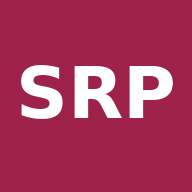
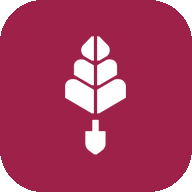
Bloque 36: más iconos del set CDMX, logotipo del programa e icono de la app (D89, D90)
Iconos elegidos por Liber en acceso (correo #53, contraseña #63, Entrar #11),
cuenta (#261), las cinco pestañas (#32, #183, #50, #48, #270), ayuda sin
internet (#24), buscar (#4), agregar (#32), dar de alta (#264) y avisos (#22);
se insertan al arrancar con SRP.app.ponerIconos() y SRP.ICONOS.poner().

Logotipo del Programa de Reforestación Urbana en el encabezado (completo en
pantalla ancha; emblema y nombre del programa en teléfono) y en el PDF, desde
el mismo archivo. Icono de la app: emblema del programa en blanco sobre guinda
(192, 512, 512 enmascarable, apple-touch). assets/logo.js deja de usarse
(movido a _to_delete/ para que Liber lo borre).

Verificación: 241 comprobaciones sin errores de consola, 81 de auditoría,
presentación sin desbordes; el worker guarda 41 archivos. Versión 0.6.17.

Claude-Session: https://claude.ai/code/session_018txYZzHW3mQuK8F5vSPbmE

diff --git a/js/iconos.js b/js/iconos.js
@@ -6,7 +6,8 @@
    CDMX 2024-2030 se toman de ahí (basura, cerrar, ubicación, cámara, ver), extraídos del
    ICONOS SET.ai que entregó Liber y normalizados a una caja de 24×24 con
    pruebas/extraer_iconos.py; el número es su posición en la hoja índice. Palomita, lápiz, disco
-   y señal no existen en el set y se conservan. */
+   y señal no existen en el set y se conservan. En el bloque 36 (D89) entraron los del acceso, la
+   cuenta, las pestañas y varias acciones; conexión con y sin señal siguen con las ondas. */
 window.SRP = window.SRP || {};
 
 SRP.ICONOS = {
@@ -28,6 +29,41 @@ SRP.ICONOS = {
   ver: '<path fill="currentColor" d="M 12.68 12 L 9.6 15.08 L 11 16.5 L 15.5 12 L 11 7.5 L 9.6 8.92 Z M 12 20 C 14.23 20 16.12 19.22 17.68 17.67 C 19.22 16.13 20 14.23 20 12 C 20 9.77 19.22 7.87 17.68 6.33 C 16.12 4.78 14.23 4 12 4 C 9.77 4 7.88 4.78 6.32 6.33 C 4.78 7.87 4 9.77 4 12 C 4 14.23 4.78 16.13 6.32 17.67 C 7.88 19.22 9.77 20 12 20 M 12 22 C 10.62 22 9.32 21.73 8.1 21.21 C 6.89 20.69 5.83 19.97 4.93 19.08 C 4.03 18.18 3.31 17.12 2.79 15.9 C 2.26 14.68 2 13.38 2 12 C 2 10.62 2.26 9.32 2.79 8.1 C 3.31 6.88 4.03 5.82 4.93 4.93 C 5.83 4.03 6.89 3.31 8.1 2.79 C 9.32 2.27 10.62 2 12 2 C 13.38 2 14.68 2.27 15.9 2.79 C 17.11 3.31 18.17 4.03 19.07 4.93 C 19.97 5.82 20.69 6.88 21.21 8.1 C 21.74 9.32 22 10.62 22 12 C 22 13.38 21.74 14.68 21.21 15.9 C 20.69 17.12 19.97 18.18 19.07 19.08 C 18.17 19.97 17.11 20.69 15.9 21.21 C 14.68 21.73 13.38 22 12 22"/>',
   // Agregar fotografía (set CDMX #62)
   camara: '<path fill="currentColor" d="M 18.36 8.37 L 18.36 6.54 L 16.55 6.54 L 16.55 4.73 L 18.36 4.73 L 18.36 2.91 L 20.18 2.91 L 20.18 4.73 L 22 4.73 L 22 6.54 L 20.18 6.54 L 20.18 8.37 Z M 11.09 16.09 C 10.45 16.09 9.92 15.87 9.48 15.43 C 9.04 14.99 8.82 14.45 8.82 13.82 C 8.82 13.18 9.04 12.65 9.48 12.21 C 9.92 11.77 10.45 11.54 11.09 11.54 C 11.73 11.54 12.27 11.77 12.71 12.21 C 13.15 12.65 13.36 13.18 13.36 13.82 C 13.36 14.45 13.15 14.99 12.71 15.43 C 12.27 15.87 11.73 16.09 11.09 16.09 M 11.09 17.91 C 12.23 17.91 13.19 17.51 13.99 16.72 C 14.78 15.92 15.18 14.96 15.18 13.82 C 15.18 12.68 14.78 11.71 13.99 10.92 C 13.19 10.12 12.23 9.73 11.09 9.73 C 9.95 9.73 8.99 10.12 8.19 10.92 C 7.4 11.71 7 12.68 7 13.82 C 7 14.96 7.4 15.92 8.19 16.72 C 8.99 17.51 9.95 17.91 11.09 17.91 M 3.82 21.09 C 3.32 21.09 2.89 20.91 2.53 20.56 C 2.18 20.2 2 19.78 2 19.28 L 2 8.37 C 2 7.86 2.18 7.44 2.53 7.08 C 2.89 6.72 3.32 6.54 3.82 6.54 L 6.68 6.54 L 8.36 4.73 L 13.82 4.73 L 13.82 6.54 L 9.16 6.54 L 7.5 8.37 L 3.82 8.37 L 3.82 19.28 L 18.36 19.28 L 18.36 11.09 L 20.18 11.09 L 20.18 19.28 C 20.18 19.78 20.01 20.2 19.65 20.56 C 19.29 20.91 18.86 21.09 18.36 21.09 Z M 3.82 21.09"/>',
+
+  // ---- Bloque 36 (D89): acceso, cuenta, pestañas y acciones ----
+  // Correo (set CDMX #53)
+  correo: '<path fill="currentColor" d="M 13.82 12.27 L 7.46 7.84 L 7.46 14.73 L 20.18 14.73 L 20.18 7.84 Z M 20.18 7.77 L 20.18 5.64 L 7.46 5.64 L 7.46 7.77 L 7.46 5.64 L 20.18 5.64 Z M 13.82 10.04 L 20.18 5.64 L 7.46 5.64 Z M 7.46 16.55 C 6.96 16.55 6.53 16.37 6.17 16.01 C 5.81 15.66 5.64 15.23 5.64 14.73 L 5.64 5.64 C 5.64 5.14 5.81 4.71 6.17 4.35 C 6.53 4 6.96 3.82 7.46 3.82 L 20.18 3.82 C 20.68 3.82 21.11 4 21.46 4.35 C 21.82 4.71 22 5.14 22 5.64 L 22 14.73 C 22 15.23 21.82 15.66 21.46 16.01 C 21.11 16.37 20.68 16.55 20.18 16.55 Z M 3.82 20.18 C 3.32 20.18 2.89 20 2.54 19.65 C 2.18 19.29 2 18.86 2 18.36 L 2 7 L 3.82 7 L 3.82 18.36 L 18.82 18.36 L 18.82 20.18 Z M 3.82 20.18"/>',
+  // Contraseña (set CDMX #63)
+  candado: '<path fill="currentColor" d="M 12 17.24 C 12.52 17.24 12.97 17.05 13.34 16.68 C 13.72 16.31 13.9 15.86 13.9 15.33 C 13.9 14.81 13.72 14.36 13.34 13.99 C 12.97 13.61 12.52 13.43 12 13.43 C 11.48 13.43 11.03 13.61 10.66 13.99 C 10.28 14.36 10.1 14.81 10.1 15.33 C 10.1 15.86 10.28 16.31 10.66 16.68 C 11.03 17.05 11.48 17.24 12 17.24 M 9.14 8.67 L 14.86 8.67 L 14.86 6.76 C 14.86 5.97 14.58 5.29 14.02 4.74 C 13.47 4.18 12.79 3.91 12 3.91 C 11.2 3.91 10.53 4.18 9.98 4.74 C 9.42 5.29 9.14 5.97 9.14 6.76 Z M 6.29 10.57 L 6.29 20.09 Z M 17.71 10.57 L 6.29 10.57 L 6.29 20.1 L 17.71 20.1 Z M 6.29 22 C 5.76 22 5.31 21.81 4.94 21.44 C 4.57 21.07 4.38 20.62 4.38 20.09 L 4.38 10.57 C 4.38 10.05 4.57 9.6 4.94 9.23 C 5.31 8.85 5.76 8.67 6.29 8.67 L 7.24 8.67 L 7.24 6.76 C 7.24 5.44 7.7 4.32 8.63 3.39 C 9.56 2.47 10.68 2 12 2 C 13.32 2 14.44 2.47 15.37 3.39 C 16.3 4.32 16.76 5.44 16.76 6.76 L 16.76 8.67 L 17.71 8.67 C 18.24 8.67 18.69 8.85 19.06 9.23 C 19.43 9.6 19.62 10.05 19.62 10.57 L 19.62 20.09 C 19.62 20.62 19.43 21.07 19.06 21.44 C 18.69 21.81 18.24 22 17.71 22 Z M 6.29 22"/>',
+  // Entrar (set CDMX #11)
+  entrar: '<path fill="currentColor" d="M 13.72 17.89 L 18.22 5.78 L 6.11 10.28 L 11.56 12.44 Z M 13 22 L 9.83 14.16 L 2 11 L 2 9.44 L 22 2 L 14.56 22 Z M 13 22"/>',
+  // Cuenta con sesión (set CDMX #261)
+  usuario: '<path fill="currentColor" d="M 12 9.5 C 12.68 9.5 13.28 9.26 13.77 8.76 C 14.25 8.28 14.5 7.69 14.5 7 C 14.5 6.32 14.25 5.72 13.77 5.24 C 13.28 4.75 12.68 4.5 12 4.5 C 11.31 4.5 10.72 4.75 10.23 5.24 C 9.74 5.72 9.5 6.32 9.5 7 C 9.5 7.69 9.74 8.28 10.23 8.76 C 10.72 9.26 11.31 9.5 12 9.5 M 12 12 C 10.62 12 9.44 11.51 8.47 10.53 C 7.49 9.55 7 8.38 7 7 C 7 5.63 7.49 4.45 8.47 3.47 C 9.44 2.49 10.62 2 12 2 C 13.37 2 14.55 2.49 15.53 3.47 C 16.51 4.45 17 5.63 17 7 C 17 8.38 16.51 9.55 15.53 10.53 C 14.55 11.51 13.37 12 12 12 M 4.5 19.5 L 19.49 19.5 L 19.49 18.5 C 19.49 18.27 19.44 18.06 19.32 17.88 C 19.21 17.68 19.06 17.54 18.87 17.44 C 17.75 16.88 16.61 16.45 15.47 16.17 C 14.32 15.89 13.17 15.75 12 15.75 C 10.83 15.75 9.68 15.89 8.53 16.17 C 7.38 16.45 6.25 16.88 5.13 17.44 C 4.94 17.54 4.79 17.68 4.67 17.88 C 4.56 18.06 4.5 18.27 4.5 18.5 Z M 2 22 L 2 18.5 C 2 17.79 2.18 17.14 2.55 16.55 C 2.91 15.95 3.4 15.5 4 15.19 C 5.29 14.54 6.61 14.06 7.94 13.73 C 9.27 13.41 10.62 13.25 12 13.25 C 13.37 13.25 14.72 13.41 16.06 13.73 C 17.39 14.06 18.7 14.54 20 15.19 C 20.6 15.5 21.09 15.95 21.45 16.55 C 21.81 17.14 22 17.79 22 18.5 L 22 22 Z M 2 22"/>',
+  // Agregar, nuevo (set CDMX #32)
+  mas: '<path fill="currentColor" d="M 11 17 L 13 17 L 13 13 L 17 13 L 17 11 L 13 11 L 13 7 L 11 7 L 11 11 L 7 11 L 7 13 L 11 13 Z M 12 20 C 14.23 20 16.12 19.22 17.68 17.68 C 19.22 16.12 20 14.23 20 12 C 20 9.77 19.22 7.88 17.68 6.32 C 16.12 4.78 14.23 4 12 4 C 9.77 4 7.88 4.78 6.32 6.32 C 4.78 7.88 4 9.77 4 12 C 4 14.23 4.78 16.12 6.32 17.68 C 7.88 19.22 9.77 20 12 20 M 12 22 C 10.62 22 9.32 21.74 8.1 21.21 C 6.89 20.69 5.83 19.97 4.93 19.07 C 4.03 18.17 3.31 17.11 2.79 15.9 C 2.26 14.68 2 13.38 2 12 C 2 10.62 2.26 9.32 2.79 8.1 C 3.31 6.89 4.03 5.83 4.93 4.93 C 5.83 4.03 6.89 3.31 8.1 2.79 C 9.32 2.26 10.62 2 12 2 C 13.38 2 14.68 2.26 15.9 2.79 C 17.11 3.31 18.17 4.03 19.07 4.93 C 19.97 5.83 20.69 6.89 21.21 8.1 C 21.74 9.32 22 10.62 22 12 C 22 13.38 21.74 14.68 21.21 15.9 C 20.69 17.11 19.97 18.17 19.07 19.07 C 18.17 19.97 17.11 20.69 15.9 21.21 C 14.68 21.74 13.38 22 12 22"/>',
+  // Pestaña Registros (set CDMX #183)
+  registros: '<path fill="currentColor" d="M 18.73 20.18 L 17.45 20.18 Z M 17.45 22 L 17.45 20.18 L 18.73 20.18 L 20 7.46 L 11.32 7.46 L 11.09 5.64 L 15.63 5.64 L 15.63 2 L 17.45 2 L 17.45 5.64 L 22 5.64 L 20.5 20.68 C 20.45 21.06 20.29 21.37 20 21.63 C 19.71 21.87 19.38 22 19 22 Z M 13.2 12.91 C 12.72 12.23 12.08 11.75 11.28 11.49 C 10.49 11.22 9.67 11.09 8.82 11.09 C 7.97 11.09 7.15 11.22 6.35 11.49 C 5.56 11.75 4.92 12.23 4.43 12.91 Z M 2.91 22 C 2.65 22 2.44 21.91 2.26 21.74 C 2.09 21.56 2 21.35 2 21.09 L 2 20.18 L 15.63 20.18 L 15.63 21.09 C 15.63 21.35 15.55 21.56 15.38 21.74 C 15.2 21.91 14.98 22 14.73 22 Z M 2 16.54 L 15.63 16.54 L 15.63 18.36 L 2 18.36 Z M 2 14.73 C 2 13.08 2.69 11.75 4.07 10.76 C 5.45 9.77 7.03 9.27 8.82 9.27 C 10.6 9.27 12.19 9.77 13.57 10.76 C 14.95 11.75 15.63 13.08 15.63 14.73 Z M 2 14.73"/>',
+  // Pestaña Reportes (set CDMX #50)
+  reportes: '<path fill="currentColor" d="M 10.85 16.57 L 16.5 10.9 L 15.1 9.5 L 10.85 13.75 L 8.73 11.63 L 7.3 13.05 Z M 4 6 L 4 18 Z M 20 18 L 20 8 L 11.17 8 L 9.18 6 L 4 6 L 4 18 Z M 4 20 C 3.45 20 2.98 19.8 2.59 19.41 C 2.2 19.02 2 18.55 2 18 L 2 6 C 2 5.45 2.2 4.98 2.59 4.59 C 2.98 4.2 3.45 4 4 4 L 10 4 L 12 6 L 20 6 C 20.55 6 21.02 6.19 21.42 6.59 C 21.8 6.98 22 7.45 22 8 L 22 18 C 22 18.55 21.8 19.02 21.42 19.41 C 21.02 19.8 20.55 20 20 20 Z M 4 20"/>',
+  // Pestaña Catálogos (set CDMX #48)
+  catalogos: '<path fill="currentColor" d="M 7.49 12 L 5.81 17.58 Z M 5.81 17.58 L 17.81 17.58 L 19.49 12 L 7.49 12 Z M 3.86 6.42 L 3.86 8.28 Z M 3.86 19.44 C 3.35 19.44 2.91 19.26 2.55 18.89 C 2.18 18.53 2 18.09 2 17.58 L 2 6.42 C 2 5.91 2.18 5.47 2.55 5.1 C 2.91 4.74 3.35 4.56 3.86 4.56 L 9.44 4.56 L 11.3 6.42 L 18.74 6.42 C 19.26 6.42 19.69 6.6 20.06 6.97 C 20.42 7.33 20.6 7.77 20.6 8.28 L 10.54 8.28 L 8.67 6.42 L 3.86 6.42 L 3.86 17.58 L 6.09 10.14 L 22 10.14 L 19.6 18.12 C 19.48 18.52 19.25 18.84 18.92 19.08 C 18.58 19.32 18.22 19.44 17.81 19.44 Z M 3.86 19.44"/>',
+  // Pestaña Usuarios (set CDMX #270)
+  usuarios: '<path fill="currentColor" d="M 18.25 19.91 L 18.25 18.56 C 18.25 18.2 18.2 17.86 18.11 17.54 C 18.02 17.22 17.89 16.92 17.71 16.65 C 17.86 16.62 18.02 16.6 18.18 16.59 C 18.34 16.59 18.5 16.58 18.66 16.58 C 19.67 16.58 20.47 16.77 21.08 17.13 C 21.69 17.5 22 17.99 22 18.6 L 22 19.91 Z M 18.66 15.75 C 18.21 15.75 17.81 15.58 17.49 15.26 C 17.16 14.93 17 14.54 17 14.08 C 17 13.61 17.16 13.21 17.49 12.89 C 17.81 12.57 18.21 12.42 18.66 12.42 C 19.14 12.42 19.53 12.57 19.85 12.89 C 20.17 13.21 20.33 13.61 20.33 14.08 C 20.33 14.54 20.17 14.93 19.85 15.26 C 19.53 15.58 19.14 15.75 18.66 15.75 M 12 11.58 C 11.76 11.58 11.57 11.66 11.41 11.82 C 11.24 11.98 11.17 12.18 11.17 12.42 C 11.17 12.65 11.24 12.85 11.41 13.01 C 11.57 13.17 11.76 13.25 12 13.25 C 12.23 13.25 12.43 13.17 12.59 13.01 C 12.75 12.85 12.83 12.65 12.83 12.42 C 12.83 12.18 12.75 11.98 12.59 11.82 C 12.43 11.66 12.23 11.58 12 11.58 M 12 14.92 C 11.3 14.92 10.72 14.67 10.23 14.19 C 9.74 13.7 9.5 13.11 9.5 12.42 C 9.5 11.71 9.74 11.11 10.23 10.64 C 10.72 10.16 11.3 9.92 12 9.92 C 12.71 9.92 13.3 10.16 13.78 10.64 C 14.26 11.11 14.5 11.71 14.5 12.42 C 14.5 13.11 14.26 13.7 13.78 14.19 C 13.3 14.67 12.71 14.92 12 14.92 M 12 17.21 C 11.21 17.21 10.5 17.31 9.87 17.52 C 9.25 17.73 8.88 17.97 8.77 18.25 L 15.25 18.25 C 15.12 17.97 14.75 17.73 14.13 17.52 C 13.51 17.31 12.8 17.21 12 17.21 M 7 19.91 L 7 18.56 C 7 17.66 7.46 16.93 8.39 16.37 C 9.31 15.82 10.51 15.54 12 15.54 C 13.5 15.54 14.71 15.82 15.62 16.37 C 16.54 16.93 17 17.66 17 18.56 L 17 19.91 Z M 5.33 15.75 C 4.87 15.75 4.48 15.58 4.16 15.26 C 3.83 14.93 3.67 14.54 3.67 14.08 C 3.67 13.61 3.83 13.21 4.16 12.89 C 4.48 12.57 4.87 12.42 5.33 12.42 C 5.8 12.42 6.2 12.57 6.52 12.89 C 6.84 13.21 7 13.61 7 14.08 C 7 14.54 6.84 14.93 6.52 15.26 C 6.2 15.58 5.8 15.75 5.33 15.75 M 2 19.91 L 2 18.6 C 2 17.99 2.31 17.5 2.93 17.13 C 3.54 16.77 4.35 16.58 5.33 16.58 C 5.51 16.58 5.69 16.59 5.86 16.59 C 6.02 16.6 6.18 16.62 6.33 16.65 C 6.14 16.92 5.99 17.22 5.9 17.54 C 5.8 17.86 5.75 18.2 5.75 18.56 L 5.75 19.91 Z M 2.79 12.67 C 2.54 12.17 2.35 11.66 2.21 11.15 C 2.07 10.63 2 10.11 2 9.58 C 2 8.03 2.53 6.72 3.58 5.67 C 4.64 4.61 5.94 4.09 7.5 4.09 C 8.37 4.09 9.21 4.27 10 4.64 C 10.79 5 11.46 5.51 12 6.17 C 12.54 5.51 13.21 5 14 4.64 C 14.79 4.27 15.62 4.09 16.5 4.09 C 18.05 4.09 19.36 4.61 20.42 5.67 C 21.47 6.72 22 8.03 22 9.58 C 22 10.11 21.93 10.63 21.79 11.15 C 21.65 11.66 21.46 12.17 21.21 12.67 C 21.05 12.4 20.87 12.17 20.66 11.96 C 20.46 11.75 20.21 11.58 19.94 11.46 C 20.06 11.14 20.16 10.83 20.23 10.52 C 20.3 10.22 20.33 9.9 20.33 9.58 C 20.33 8.5 19.96 7.59 19.23 6.86 C 18.49 6.12 17.58 5.75 16.5 5.75 C 15.37 5.75 14.51 6.06 13.91 6.68 C 13.3 7.29 12.66 7.98 12 8.75 C 11.33 7.97 10.7 7.28 10.09 6.67 C 9.49 6.06 8.63 5.75 7.5 5.75 C 6.42 5.75 5.51 6.12 4.77 6.86 C 4.04 7.59 3.67 8.5 3.67 9.58 C 3.67 9.9 3.7 10.22 3.77 10.52 C 3.84 10.83 3.94 11.14 4.06 11.46 C 3.78 11.58 3.54 11.75 3.33 11.96 C 3.13 12.17 2.95 12.4 2.79 12.67"/>',
+  // Ayuda (set CDMX #24)
+  ayuda: '<path fill="currentColor" d="M 11.95 18 C 12.3 18 12.6 17.88 12.84 17.63 C 13.08 17.4 13.2 17.1 13.2 16.75 C 13.2 16.4 13.08 16.1 12.84 15.86 C 12.6 15.62 12.3 15.5 11.95 15.5 C 11.6 15.5 11.31 15.62 11.06 15.86 C 10.82 16.1 10.7 16.4 10.7 16.75 C 10.7 17.1 10.82 17.4 11.06 17.63 C 11.31 17.88 11.6 18 11.95 18 M 11.05 14.15 L 12.9 14.15 C 12.9 13.6 12.96 13.17 13.09 12.85 C 13.21 12.53 13.57 12.1 14.15 11.55 C 14.59 11.12 14.93 10.7 15.18 10.31 C 15.42 9.92 15.55 9.45 15.55 8.9 C 15.55 7.97 15.21 7.25 14.52 6.75 C 13.84 6.25 13.03 6 12.1 6 C 11.15 6 10.38 6.25 9.79 6.75 C 9.2 7.25 8.78 7.85 8.55 8.55 L 10.2 9.2 C 10.29 8.9 10.47 8.57 10.76 8.22 C 11.06 7.87 11.5 7.7 12.1 7.7 C 12.63 7.7 13.03 7.85 13.3 8.14 C 13.57 8.43 13.7 8.75 13.7 9.1 C 13.7 9.44 13.6 9.75 13.4 10.04 C 13.2 10.33 12.95 10.6 12.65 10.85 C 11.92 11.5 11.47 11.99 11.3 12.32 C 11.13 12.66 11.05 13.27 11.05 14.15 M 12 20 C 14.23 20 16.12 19.22 17.68 17.67 C 19.22 16.13 20 14.23 20 12 C 20 9.77 19.22 7.87 17.68 6.33 C 16.12 4.78 14.23 4 12 4 C 9.77 4 7.88 4.78 6.32 6.33 C 4.78 7.87 4 9.77 4 12 C 4 14.23 4.78 16.13 6.32 17.67 C 7.88 19.22 9.77 20 12 20 M 12 22 C 10.62 22 9.32 21.73 8.1 21.21 C 6.89 20.69 5.83 19.97 4.93 19.08 C 4.03 18.18 3.32 17.12 2.79 15.9 C 2.26 14.68 2 13.38 2 12 C 2 10.62 2.26 9.32 2.79 8.1 C 3.32 6.88 4.03 5.82 4.93 4.93 C 5.83 4.03 6.89 3.31 8.1 2.79 C 9.32 2.27 10.62 2 12 2 C 13.38 2 14.68 2.27 15.9 2.79 C 17.11 3.31 18.17 4.03 19.07 4.93 C 19.97 5.82 20.69 6.88 21.21 8.1 C 21.74 9.32 22 10.62 22 12 C 22 13.38 21.74 14.68 21.21 15.9 C 20.69 17.12 19.97 18.18 19.07 19.08 C 18.17 19.97 17.11 20.69 15.9 21.21 C 14.68 21.73 13.38 22 12 22"/>',
+  // Buscar (set CDMX #4)
+  buscar: '<path fill="currentColor" d="M 9.22 14.22 C 10.61 14.22 11.79 13.74 12.76 12.76 C 13.73 11.79 14.22 10.61 14.22 9.22 C 14.22 7.84 13.73 6.65 12.76 5.68 C 11.79 4.71 10.61 4.22 9.22 4.22 C 7.83 4.22 6.65 4.71 5.68 5.68 C 4.71 6.65 4.22 7.84 4.22 9.22 C 4.22 10.61 4.71 11.79 5.68 12.76 C 6.65 13.74 7.83 14.22 9.22 14.22 M 20.44 22 L 13.44 15 C 12.89 15.45 12.25 15.8 11.53 16.05 C 10.8 16.31 10.04 16.45 9.22 16.45 C 7.2 16.45 5.5 15.74 4.1 14.35 C 2.7 12.95 2 11.24 2 9.22 C 2 7.2 2.7 5.49 4.1 4.1 C 5.5 2.7 7.2 2 9.22 2 C 11.24 2 12.95 2.7 14.35 4.1 C 15.74 5.49 16.44 7.2 16.44 9.22 C 16.44 10.04 16.31 10.81 16.06 11.53 C 15.79 12.25 15.44 12.89 15 13.44 L 22 20.44 Z M 20.44 22"/>',
+  // Dar de alta una cuenta (set CDMX #264)
+  usuarioMas: '<path fill="currentColor" d="M 17.45 13.82 L 17.45 11.09 L 14.73 11.09 L 14.73 9.27 L 17.45 9.27 L 17.45 6.54 L 19.27 6.54 L 19.27 9.27 L 22 9.27 L 22 11.09 L 19.27 11.09 L 19.27 13.82 Z M 9.27 10.18 C 9.77 10.18 10.2 10 10.55 9.65 C 10.91 9.29 11.09 8.86 11.09 8.36 C 11.09 7.86 10.91 7.43 10.55 7.08 C 10.2 6.72 9.77 6.54 9.27 6.54 C 8.77 6.54 8.34 6.72 7.99 7.08 C 7.63 7.43 7.45 7.86 7.45 8.36 C 7.45 8.86 7.63 9.29 7.99 9.65 C 8.34 10 8.77 10.18 9.27 10.18 M 9.27 12 C 8.27 12 7.41 11.65 6.7 10.93 C 5.99 10.22 5.64 9.36 5.64 8.36 C 5.64 7.36 5.99 6.51 6.7 5.8 C 7.41 5.08 8.27 4.72 9.27 4.72 C 10.27 4.72 11.13 5.08 11.84 5.8 C 12.55 6.51 12.91 7.36 12.91 8.36 C 12.91 9.36 12.55 10.22 11.84 10.93 C 11.13 11.65 10.27 12 9.27 12 M 3.82 17.46 L 14.73 17.46 L 14.73 16.73 C 14.73 16.56 14.69 16.41 14.6 16.27 C 14.52 16.14 14.41 16.03 14.27 15.96 C 13.45 15.55 12.63 15.24 11.8 15.03 C 10.96 14.83 10.12 14.73 9.27 14.73 C 8.42 14.73 7.58 14.83 6.75 15.03 C 5.92 15.24 5.09 15.55 4.27 15.96 C 4.13 16.03 4.03 16.14 3.94 16.27 C 3.86 16.41 3.82 16.56 3.82 16.73 Z M 2 19.28 L 2 16.73 C 2 16.21 2.13 15.74 2.4 15.31 C 2.66 14.88 3.01 14.55 3.45 14.32 C 4.39 13.85 5.34 13.5 6.32 13.26 C 7.29 13.03 8.27 12.91 9.27 12.91 C 10.27 12.91 11.26 13.03 12.23 13.26 C 13.2 13.5 14.15 13.85 15.09 14.32 C 15.53 14.55 15.88 14.88 16.15 15.31 C 16.41 15.74 16.55 16.21 16.55 16.73 L 16.55 19.28 Z M 2 19.28"/>',
+  // Aviso informativo (set CDMX #22)
+  info: '<path fill="currentColor" d="M 11 17 L 13 17 L 13 11 L 11 11 Z M 12 9 C 12.28 9 12.52 8.9 12.71 8.71 C 12.9 8.52 13 8.29 13 8 C 13 7.71 12.9 7.48 12.71 7.29 C 12.52 7.1 12.28 7 12 7 C 11.71 7 11.48 7.1 11.28 7.29 C 11.1 7.48 11 7.71 11 8 C 11 8.29 11.1 8.52 11.28 8.71 C 11.48 8.9 11.71 9 12 9 M 12 20 C 14.23 20 16.12 19.23 17.67 17.67 C 19.23 16.13 20 14.23 20 12 C 20 9.77 19.23 7.87 17.67 6.33 C 16.12 4.77 14.23 4 12 4 C 9.77 4 7.87 4.77 6.32 6.33 C 4.77 7.87 4 9.77 4 12 C 4 14.23 4.77 16.13 6.32 17.67 C 7.87 19.23 9.77 20 12 20 M 12 22 C 10.61 22 9.31 21.74 8.1 21.21 C 6.88 20.69 5.82 19.97 4.92 19.07 C 4.02 18.17 3.31 17.12 2.79 15.9 C 2.26 14.69 2 13.38 2 12 C 2 10.62 2.26 9.31 2.79 8.1 C 3.31 6.88 4.02 5.82 4.92 4.92 C 5.82 4.02 6.88 3.31 8.1 2.79 C 9.31 2.26 10.61 2 12 2 C 13.38 2 14.69 2.26 15.9 2.79 C 17.11 3.31 18.17 4.02 19.07 4.92 C 19.97 5.82 20.69 6.88 21.21 8.1 C 21.74 9.31 22 10.62 22 12 C 22 13.38 21.74 14.69 21.21 15.9 C 20.69 17.12 19.97 18.17 19.07 19.07 C 18.17 19.97 17.11 20.69 15.9 21.21 C 14.69 21.74 13.38 22 12 22"/>',
+
+  /* Antepone un icono a lo que ya tiene el elemento (botón, etiqueta, pestaña) sin tocar su
+     contenido: el asterisco de obligatorio y el texto se quedan como estaban. */
+  poner(el, nombre, tam) {
+    if (!el || el.querySelector('svg')) return;
+    el.insertAdjacentHTML('afterbegin', this.svg(nombre, tam));
+  },
 
   // Devuelve el SVG listo para insertar. aria-hidden: la palabra del botón ya lo nombra.
   svg(nombre, tam) {

diff --git a/index.html b/index.html
@@ -5,11 +5,12 @@
 <meta name="viewport" content="width=device-width, initial-scale=1, viewport-fit=cover">
 <meta name="theme-color" content="#9D2148">
 <link rel="manifest" href="manifest.webmanifest">
-<link rel="apple-touch-icon" href="assets/icono-192.png">
+<link rel="apple-touch-icon" href="assets/apple-touch-icon.png?v=0.6.17">
+<link rel="preload" as="image" href="assets/encabezado-ru-movil.png?v=0.6.17">
 <title>Registro de Plantaciones | SEDEMA</title>
-<link rel="stylesheet" href="vendor/leaflet.css?v=0.6.16">
-<link rel="stylesheet" href="vendor/leaflet-gesture-handling.min.css?v=0.6.16">
-<link rel="stylesheet" href="css/estilos.css?v=0.6.16">
+<link rel="stylesheet" href="vendor/leaflet.css?v=0.6.17">
+<link rel="stylesheet" href="vendor/leaflet-gesture-handling.min.css?v=0.6.17">
+<link rel="stylesheet" href="css/estilos.css?v=0.6.17">
 </head>
 <body>
 <a class="saltar" href="#principal">Saltar al contenido</a>
@@ -18,7 +19,11 @@
 
 <header class="encabezado">
   <div class="encabezado-interior">
-    <img id="logo" class="encabezado-logo" alt="Gobierno de la Ciudad de México. Secretaría del Medio Ambiente">
+    <!-- Logotipo del Programa de Reforestación Urbana (D90): completo en pantalla ancha; en teléfono, el emblema y el nombre del programa -->
+    <picture>
+      <source media="(max-width: 480px)" srcset="assets/encabezado-ru-movil.png?v=0.6.17">
+      <img id="logo" class="encabezado-logo" src="assets/encabezado-ru.png?v=0.6.17" alt="Gobierno de la Ciudad de México. Secretaría del Medio Ambiente. Reforestación Urbana">
+    </picture>
     <div id="encabezado-usuario" class="encabezado-usuario" hidden>
       <span id="usuario-nombre" class="encabezado-nombre"></span>
       <span id="usuario-perfil" class="insignia"></span>
@@ -478,38 +483,37 @@
      a la vez; js/config.js lee ese valor de su propia dirección, así que no se escribe dos veces.
      Sin esto, un teléfono que ya abrió el sitio mezcla archivos viejos y nuevos, y no arranca. -->
 <!-- Bibliotecas incluidas localmente: la app funciona sin señal y sin servidores externos -->
-<script src="vendor/leaflet.js?v=0.6.16"></script>
-<script src="vendor/leaflet-gesture-handling.min.js?v=0.6.16"></script>
-<script src="vendor/turf-pip.min.js?v=0.6.16"></script>
-<script src="vendor/jspdf.umd.min.js?v=0.6.16"></script>
-<script src="vendor/jspdf.plugin.autotable.min.js?v=0.6.16"></script>
+<script src="vendor/leaflet.js?v=0.6.17"></script>
+<script src="vendor/leaflet-gesture-handling.min.js?v=0.6.17"></script>
+<script src="vendor/turf-pip.min.js?v=0.6.17"></script>
+<script src="vendor/jspdf.umd.min.js?v=0.6.17"></script>
+<script src="vendor/jspdf.plugin.autotable.min.js?v=0.6.17"></script>
 <!-- Scripts clásicos (no módulos): los módulos ES no cargan al abrir con doble clic (file://) -->
-<script src="js/config.js?v=0.6.16"></script>
-<script src="js/util.js?v=0.6.16"></script>
-<script src="js/iconos.js?v=0.6.16"></script>
-<script src="assets/logo.js?v=0.6.16"></script>
+<script src="js/config.js?v=0.6.17"></script>
+<script src="js/util.js?v=0.6.17"></script>
+<script src="js/iconos.js?v=0.6.17"></script>
 <!-- Capas territoriales del SIA, compactadas por pruebas/generar_capas.py desde assets/fuentes/ -->
-<script src="assets/capa-alcaldias.js?v=0.6.16"></script>
-<script src="assets/capa-uga.js?v=0.6.16"></script>
-<script src="assets/capa-colonias.js?v=0.6.16"></script>
-<script src="assets/catalogo-especies.js?v=0.6.16"></script>
-<script src="js/datos-ficticios.js?v=0.6.16"></script>
-<script src="js/permisos.js?v=0.6.16"></script>
-<script src="js/derivacion.js?v=0.6.16"></script>
-<script src="js/almacen.js?v=0.6.16"></script>
-<script src="js/sesion.js?v=0.6.16"></script>
-<script src="js/referencias.js?v=0.6.16"></script>
-<script src="js/folio.js?v=0.6.16"></script>
-<script src="js/conexion.js?v=0.6.16"></script>
-<script src="js/mapa.js?v=0.6.16"></script>
-<script src="js/foto.js?v=0.6.16"></script>
-<script src="js/formulario.js?v=0.6.16"></script>
+<script src="assets/capa-alcaldias.js?v=0.6.17"></script>
+<script src="assets/capa-uga.js?v=0.6.17"></script>
+<script src="assets/capa-colonias.js?v=0.6.17"></script>
+<script src="assets/catalogo-especies.js?v=0.6.17"></script>
+<script src="js/datos-ficticios.js?v=0.6.17"></script>
+<script src="js/permisos.js?v=0.6.17"></script>
+<script src="js/derivacion.js?v=0.6.17"></script>
+<script src="js/almacen.js?v=0.6.17"></script>
+<script src="js/sesion.js?v=0.6.17"></script>
+<script src="js/referencias.js?v=0.6.17"></script>
+<script src="js/folio.js?v=0.6.17"></script>
+<script src="js/conexion.js?v=0.6.17"></script>
+<script src="js/mapa.js?v=0.6.17"></script>
+<script src="js/foto.js?v=0.6.17"></script>
+<script src="js/formulario.js?v=0.6.17"></script>
 <!-- Sólo para la versión de prueba; se elimina al cerrar la Etapa 1 -->
-<script src="js/espejo.js?v=0.6.16"></script>
-<script src="js/registros.js?v=0.6.16"></script>
-<script src="js/reportes.js?v=0.6.16"></script>
-<script src="js/catalogos.js?v=0.6.16"></script>
-<script src="js/usuarios.js?v=0.6.16"></script>
-<script src="js/app.js?v=0.6.16"></script>
+<script src="js/espejo.js?v=0.6.17"></script>
+<script src="js/registros.js?v=0.6.17"></script>
+<script src="js/reportes.js?v=0.6.17"></script>
+<script src="js/catalogos.js?v=0.6.17"></script>
+<script src="js/usuarios.js?v=0.6.17"></script>
+<script src="js/app.js?v=0.6.17"></script>
 </body>
 </html>

diff --git a/js/app.js b/js/app.js
@@ -5,9 +5,26 @@ SRP.app = {
   vista: null,
   el(id) { return document.getElementById(id); },
 
+  /* ICONOS DEL SET CDMX EN ACCESO, PESTAÑAS Y ACCIONES (D89). Se ponen aquí, una vez, para que
+     el HTML no cargue con trazados y el icono viva en un solo lugar (js/iconos.js). */
+  ponerIconos() {
+    const I = SRP.ICONOS;
+    I.poner(document.querySelector('label[for="acceso-correo"]'), 'correo', 18);
+    I.poner(document.querySelector('label[for="acceso-clave"]'), 'candado', 18);
+    I.poner(this.el('form-acceso').querySelector('button[type="submit"]'), 'entrar', 20);
+    I.poner(this.el('btn-entrar-prueba'), 'entrar', 20);
+    const pestana = { registrar: 'mas', registros: 'registros', reportes: 'reportes', catalogos: 'catalogos', usuarios: 'usuarios' };
+    this.el('navegacion').querySelectorAll('.pestana').forEach(b => I.poner(b, pestana[b.dataset.vista], 22));
+    I.poner(this.el('btn-ayuda-senal'), 'ayuda', 20);
+    I.poner(this.el('btn-usr-agregar'), 'usuarioMas', 20);
+    I.poner(document.querySelector('label[for="cat-buscar"]'), 'buscar', 18);
+    I.poner(document.querySelector('label[for="usr-buscar"]'), 'buscar', 18);
+    // Avisos informativos: el icono va al frente del texto
+    document.querySelectorAll('.aviso-simulado').forEach(a => a.insertAdjacentHTML('afterbegin', I.svg('info', 18)));
+  },
+
   async iniciar() {
     if (!this.comprobarVersionCompleta()) return;
-    this.el('logo').src = SRP.LOGO_BASE64;
     this.el('version').textContent = SRP.CONFIG.VERSION + ' (' + SRP.CONFIG.ETAPA + ')';
     this.el('banda-ficticio').hidden = !SRP.CONFIG.ES_FICTICIO;
     try {
@@ -30,6 +47,7 @@ SRP.app = {
     SRP.conexion.iniciar();
     this.iniciarAcceso();
     this.iniciarDialogos();
+    this.ponerIconos();
 
     this.el('navegacion').addEventListener('click', (e) => {
       const b = e.target.closest('.pestana'); if (!b) return;
@@ -137,7 +155,7 @@ SRP.app = {
   entrar() {
     const u = SRP.sesion.usuario;
     const p = SRP.permisos.de(u);
-    this.el('usuario-nombre').textContent = SRP.util.nombreCompleto(u);
+    this.el('usuario-nombre').innerHTML = SRP.ICONOS.svg('usuario', 18) + '<span>' + SRP.util.escapar(SRP.util.nombreCompleto(u)) + '</span>';
     this.el('usuario-perfil').textContent = p.etiqueta;
     this.el('encabezado-usuario').hidden = false;
     this.el('btn-cambiar-perfil').hidden = !SRP.CONFIG.ES_FICTICIO;

diff --git a/css/estilos.css b/css/estilos.css
@@ -77,7 +77,7 @@ h1[tabindex="-1"]:focus { outline: none; }
   display: flex; align-items: center; justify-content: space-between; gap: var(--e-3);
   max-width: var(--ancho-max-tabla); margin: 0 auto; padding: var(--e-3) var(--e-4);
 }
-.encabezado-logo { height: 34px; width: auto; }
+.encabezado-logo { height: 40px; width: auto; display: block; }
 .encabezado-usuario { display: flex; flex-direction: column; align-items: flex-end; gap: var(--e-1); min-width: 0; text-align: right; }
 /* Salir de la sesión se decide donde se ve de quién es: junto al nombre, no al pie de la página */
 .encabezado-acciones { display: flex; flex-wrap: wrap; justify-content: flex-end; gap: var(--e-2); margin-top: var(--e-1); }
@@ -107,7 +107,12 @@ main:focus { outline: none; }
 .pestana {
   flex: 1; min-height: var(--toque); background: none; border: 0; border-bottom: 3px solid transparent;
   color: var(--gris); font-family: var(--fuente-titulo); font-weight: 600; font-size: var(--t-m); cursor: pointer;
+  display: inline-flex; flex-direction: column; align-items: center; justify-content: center; gap: 2px; padding: var(--e-1) var(--e-1) var(--e-2);
 }
+.pestana svg { flex: none; }
+/* Etiquetas y avisos con icono del set (D89): el icono va pegado al texto, alineado a la primera línea */
+label svg, .encabezado-nombre svg { vertical-align: -0.2em; margin-right: var(--e-1); }
+.aviso-envio svg, .aviso-simulado svg { float: left; margin: 0.15em var(--e-2) 0 0; }
 
 .entrada { color: var(--gris); }
 .nota { color: var(--gris); font-size: var(--t-s); }
@@ -382,7 +387,7 @@ dialog::backdrop { background: rgba(35, 37, 38, 0.55); }
 
 /* ========== 7. @MEDIA ========== */
 @media (max-width: 480px) {
-  .encabezado-logo { height: 26px; }
+  .encabezado-logo { height: 38px; }
   /* En teléfono el bloque de usuario baja a su propia fila: ahí los dos enlaces caben en línea,
      en vez de apilarse y estirar el encabezado. */
   .encabezado-interior { flex-wrap: wrap; row-gap: var(--e-2); padding-bottom: var(--e-2); }

diff --git a/js/reportes.js b/js/reportes.js
@@ -217,8 +217,20 @@ SRP.reportes = {
     return [...new Set(registros.map(r => r.alcaldia).filter(Boolean))].sort((a, b) => a.localeCompare(b, 'es'));
   },
 
-  generar(registros, cierre, fecha) {
+  /* El logotipo del PDF es el mismo archivo del encabezado (D90), siempre la versión completa
+     aunque el teléfono muestre el recorte; el service worker lo tiene, así que también sale sin señal. */
+  cargarLogo() {
+    return new Promise((resolver) => {
+      const img = new Image();
+      img.onload = () => resolver(img);
+      img.onerror = () => resolver(null);
+      img.src = 'assets/encabezado-ru.png?v=' + encodeURIComponent(SRP.CONFIG.VERSION);
+    });
+  },
+
+  async generar(registros, cierre, fecha) {
     if (!window.jspdf) { SRP.util.anunciar('No se pudo cargar el generador de PDF.', 'alerta'); return; }
+    const logo = await this.cargarLogo();
     const u = SRP.sesion.usuario;
     const variosAutores = SRP.permisos.de(u).alcance !== 'propios';
     const doc = new window.jspdf.jsPDF({ unit: 'mm', format: 'letter' });
@@ -233,7 +245,7 @@ SRP.reportes = {
        —«Chófer: ______»— parece una plantilla a medio llenar, y lo firma alguien. */
     const hay = (k) => !!(cierre[k] && cierre[k].trim());
 
-    doc.addImage(SRP.LOGO_BASE64, 'PNG', M, 12, 70, 14);
+    if (logo) doc.addImage(logo, 'PNG', M, 14, 90, 90 * logo.naturalHeight / logo.naturalWidth);
     doc.setDrawColor(...C.guinda); doc.setLineWidth(0.4); doc.line(M, 30, ancho - M, 30);
 
     doc.setFont('helvetica', 'bold'); doc.setFontSize(14); doc.setTextColor(...C.guinda);

diff --git a/js/conexion.js b/js/conexion.js
@@ -85,7 +85,7 @@ SRP.conexion = {
     // Cuántos llevan fotografía y cuánto pesan: la cifra para pedir disco a ADIP (D87)
     const fotos = n ? ' ' + (f.con_foto === 1 ? '1 lleva fotografía' : f.con_foto + ' llevan fotografía') +
       (f.con_foto ? ' (' + SRP.foto.formatearPeso(f.foto_bytes) + ')' : '') + '.' : '';
-    caja.innerHTML = '<strong>' + cuenta + '.</strong>' + fotos + ' ' + (this.enLinea()
+    caja.innerHTML = SRP.ICONOS.svg('info', 18) + '<strong>' + cuenta + '.</strong>' + fotos + ' ' + (this.enLinea()
       ? 'Por ahora no hay envío al servidor: los registros se quedan aquí. Genere el parte del día y compártalo con su coordinador, o guarde un respaldo. <strong>No borre los datos del navegador.</strong>'
       : 'Siga registrando: no hace falta internet. Cuando tenga señal, genere el parte del día y compártalo.');
   },

diff --git a/js/catalogos.js b/js/catalogos.js
@@ -56,7 +56,7 @@ SRP.catalogos = {
     plantaciones.forEach(p => { sumar(p.programa_id); sumar(p.especie_id); });   // incluye eliminados: siguen en el historial
     SRP.ref.usuarios.forEach(u => sumar(u.area_id));
     this.el('caja-cat-buscar').hidden = this.tipo !== 'especie';
-    this.el('btn-cat-agregar').textContent = 'Agregar ' + this.ETIQUETA[this.tipo];
+    this.el('btn-cat-agregar').innerHTML = SRP.ICONOS.svg('mas', 20) + '<span>Agregar ' + this.ETIQUETA[this.tipo] + '</span>';
     this.pintar();
   },
 

diff --git a/js/config.js b/js/config.js
@@ -12,7 +12,7 @@ SRP.CONFIG = {
     const m = src.match(/[?&]v=([^&]+)/);
     return m ? decodeURIComponent(m[1]) : 'sin marca de versión';
   })(),
-  ETAPA: 'Bloque 35',
+  ETAPA: 'Bloque 36',
 
   // Mientras sea true: aviso visible de datos ficticios y herramientas de prueba
   // (cambiar de perfil, restablecer datos). En producción debe ser false.

diff --git a/pruebas/extraer_iconos.py b/pruebas/extraer_iconos.py
@@ -15,7 +15,13 @@ RAIZ = os.path.dirname(os.path.dirname(os.path.abspath(__file__)))
 FUENTE = os.path.join(RAIZ, 'assets', 'fuentes', 'ICONOS_SET_CDMX_2024-2030.ai')
 
 # nombre en js/iconos.js → número en la hoja índice
-SELECCION = {'basura': 1, 'cerrar': 31, 'ubicacion': 12, 'camara': 62, 'ver': 21}
+SELECCION = {
+    # bloque 35 (D88)
+    'basura': 1, 'cerrar': 31, 'ubicacion': 12, 'camara': 62, 'ver': 21,
+    # bloque 36 (D89): acceso, cuenta, pestañas y acciones
+    'correo': 53, 'candado': 63, 'entrar': 11, 'usuario': 261, 'mas': 32, 'registros': 183,
+    'reportes': 50, 'catalogos': 48, 'usuarios': 270, 'ayuda': 24, 'buscar': 4, 'usuarioMas': 264, 'info': 22,
+}
 
 def trazados_del_set():
     with tempfile.TemporaryDirectory() as t:

diff --git a/DECISIONES.md b/DECISIONES.md
@@ -59,10 +59,7 @@
 
 ## Pendientes de decisión
 
-- [pendiente] **Icono de la app instalada**: los `assets/icono-192.png` y `icono-512.png` siguen
-  provisionales (fondo guinda y monograma SRP). Propuesta entregada a Liber el 22-09-2026: un icono
-  del set de iconografía CDMX en blanco sobre guinda (árbol #214, brote #159, hojas #213, bosque
-  #212 o pino #211); falta que elija
+- ~~Icono de la app instalada~~ Resuelto en D90: emblema del Programa de Reforestación Urbana en blanco sobre guinda
 - ~~Tipografías sin señal~~ Resuelto en D87: Cabin y Roboto en `vendor/fuentes/` (woff2, ~110 KB)
 
 - [pendiente] **Emisión del folio (Fase 2).** No se emite un solo folio definitivo hasta que el SIA:
@@ -86,6 +83,7 @@
   dispositivo» de Reportes muestra el estado de cada uno. No se adoptan de Kobo: el modal que
   exige OK en cada envío, la figura de borrador (aquí el registro está completo o no se guarda) ni
   esconder la cola en una barra lateral
+- [pendiente] **Colonias en el teléfono (3 MB) o sólo en el servidor.** El SIA hace los cruces territoriales en PostGIS, no en el dispositivo (llamada del 22-09-2026). El diseño ya lo prevé: el teléfono deriva alcaldía, colonia y UGA para verlas en campo sin señal (provisional, con `capa_version`) y en Fase 2 el servidor rederiva con PostGIS y su resultado manda (S-08). Alcaldías (390 KB) y UGA (423 KB) se quedan en el teléfono; decidir si colonias (3 MB, IECM) se queda o se deriva sólo en el servidor y el cabo la ve al sincronizar. Lo que se pide al SIA: nombre de las tablas del esquema `territorio`, SRID, campos llave, versión y fecha de corte, y una exportación de esas mismas tablas (ST_AsGeoJSON o QGIS) para que teléfono y servidor crucen contra la misma geometría
 - [pendiente] **Antes de liberar esta etapa: sustituir las tres capas** —alcaldías, malla UGA y colonias— por las definitivas del SIA, con fuente y fecha de corte confirmadas, y volver a correr `pruebas/generar_capas.py`. Las tres cargadas hoy son para probar: alcaldías y UGA traen los defectos medidos en el bloque 15, y colonias es la cartografía electoral del IECM 2022, no un catálogo del SIA. Al sustituirlas se sube `meta.version` y se rederivan los registros existentes. Anotado por Liber, 22-09-2026
 
 ### Para resolver antes de montar en los servidores del SIA
@@ -436,3 +434,27 @@
   índice (`--indice` la regenera) y normaliza los elegidos a una caja de 24×24: lo que hay en
   `js/iconos.js` es reproducible. Palomita, lápiz, disco y señal no existen en el set y se
   conservan. El icono `ojo` pasa a llamarse `ver`. Decidido por Liber, 22-09-2026.
+
+## Bloque 36 — Más iconos del set, logotipo del programa e icono de la app
+
+- **D89. Iconos del set CDMX en acceso, cuenta, pestañas y acciones.** Elegidos por Liber:
+  correo #53 y contraseña #63 (etiquetas del acceso), Entrar #11, cuenta con sesión #261,
+  pestañas Nuevo registro #32, Registros #183, Reportes #50, Catálogos #48 y Usuarios #270
+  (las cinco con icono para que la barra sea pareja; Liber marcó tres y las otras dos llevan la
+  primera opción propuesta), «¿Qué hacer sin internet?» #24, buscar #4, agregar en catálogos
+  #32, dar de alta #264 y avisos informativos #22 (aviso simulado, «Registros en este
+  dispositivo»). Sin icono por decisión de Liber: cerrar sesión, generar reporte, guardar
+  respaldo, reiniciar filtros, marca «usted»; la conexión sigue con las ondas. Los iconos se
+  insertan al arrancar (`SRP.app.ponerIconos`, `SRP.ICONOS.poner`) para que el HTML no cargue
+  trazados. Definido por Liber, 22-09-2026.
+- **D90. El logotipo del Programa de Reforestación Urbana es el del encabezado y el del PDF, y
+  su emblema es el icono de la app.** Liber entregó las seis versiones (color, blanco, calado;
+  horizontal y vertical). Encabezado: versión color horizontal completa (Gobierno CDMX ·
+  Secretaría del Medio Ambiente · Reforestación Urbana) en pantalla ancha, y en teléfono el
+  recorte del emblema con el nombre del programa, porque el logotipo completo a 38 px de alto es
+  ilegible. PDF: siempre la versión completa, cargada del mismo archivo (sale sin señal porque el
+  service worker la guarda). Icono de la app: el emblema (árbol y pala) en blanco sobre guinda,
+  esquinas redondeadas, en 192, 512, 512 enmascarable y apple-touch. Deja de usarse
+  `assets/logo.js` (SEDEMA incrustado en base64): se movió a `_to_delete/` para que Liber lo
+  borre. Los PNG originales viven en `assets/fuentes/logo-reforestacion-urbana/`. Pedido por
+  Liber, 22-09-2026.

diff --git a/README.md b/README.md
@@ -60,7 +60,7 @@ js/derivacion.js      Cruce punto-en-polígono (alcaldía, UGA, colonia)
 js/folio.js           Patrón, validación y etiqueta del folio; no lo emite
 js/conexion.js        Estado de la conexión, aviso de qué hacer con los registros, respaldo y restauración
 sw.js                 Service worker: la app abre sin señal; versión = marca ?v= de index.html
-manifest.webmanifest  Instalación en pantalla de inicio; iconos provisionales en assets/
+manifest.webmanifest  Instalación en pantalla de inicio; iconos definitivos en assets/ (D90)
 js/referencias.js     Catálogos y cuentas en memoria
 js/iconos.js          Iconos por significado; los del set de iconografía CDMX se extraen con pruebas/extraer_iconos.py (D88)
 js/reportes.js       Cierre del parte del día y reporte PDF de la jornada
@@ -69,7 +69,8 @@ js/usuarios.js, app.js, util.js
 assets/fuentes/       Capas, catálogo de especies y set de iconografía CDMX tal como llegaron; no se editan
 assets/capa-alcaldias.js, capa-uga.js, capa-colonias.js  Las mismas capas, compactadas para la aplicación (generadas)
 assets/catalogo-especies.js  Catálogo real de especies (76), generado por pruebas/generar_especies.py
-assets/logo.js        Logotipo SEDEMA incrustado
+assets/encabezado-ru.png, encabezado-ru-movil.png  Logotipo del Programa de Reforestación Urbana (encabezado y PDF; recorte para teléfono)
+assets/icono-192.png, icono-512.png, icono-512-maskable.png, apple-touch-icon.png  Icono de la app: emblema del programa sobre guinda (D90)
 js/espejo.js          Espejo de campos, sólo en la versión de prueba (se elimina al cerrar la Etapa 1)
 esquema.json          Fuente única del modelo de datos (D86)
 DICCIONARIO-DATOS.md  Inventario de tablas y diccionario de datos, generado de esquema.json

diff --git a/BITACORA.md b/BITACORA.md
@@ -778,3 +778,25 @@ propuesta HTML con las opciones y una hoja índice numerada del set.
 **Verificación:** sintaxis; 241 comprobaciones sin errores de consola; 81 de auditoría;
 presentación sin desbordes; el extractor reproduce exactamente los cinco trazados de iconos.js.
 Marca de versión 0.6.16.
+
+## Bloque 36 — Más iconos, logotipo del programa e icono de la app (22-09-2026)
+Etapa 1. Estado: **cerrado**. Versión 0.6.17.
+
+**Iconos (D89).** Trece iconos más del set en `js/iconos.js` (extraídos con
+`pruebas/extraer_iconos.py`, cuya `SELECCION` los documenta por número) y `SRP.ICONOS.poner()`;
+`SRP.app.ponerIconos()` los coloca al arrancar en etiquetas del acceso, botón Entrar, nombre de
+la cuenta, las cinco pestañas (ahora en columna icono + texto), ayuda sin internet, buscar,
+agregar, dar de alta y avisos informativos. CSS: pestañas en columna, iconos en etiquetas y
+avisos.
+
+**Logotipo e icono (D90).** `assets/encabezado-ru.png` (1400 px, completo) y
+`assets/encabezado-ru-movil.png` (recorte) en un `<picture>` con corte a 480 px; ambos con
+marca `?v=` (la móvil vía `preload`) para que el worker los guarde. El PDF carga el completo con
+`cargarLogo()` y calcula su alto por proporción. `assets/icono-192.png`, `icono-512.png`,
+`icono-512-maskable.png` y `apple-touch-icon.png` generados del emblema en blanco;
+`manifest.webmanifest` con `purpose` separado. `assets/logo.js` fuera de `index.html` y movido a
+`_to_delete/`.
+
+**Verificación:** sintaxis; 241 comprobaciones sin errores de consola; 81 de auditoría;
+presentación sin desbordes en ocho combinaciones (encabezado con logotipo nuevo incluido); el
+worker guarda 41 archivos. Marca de versión 0.6.17.
